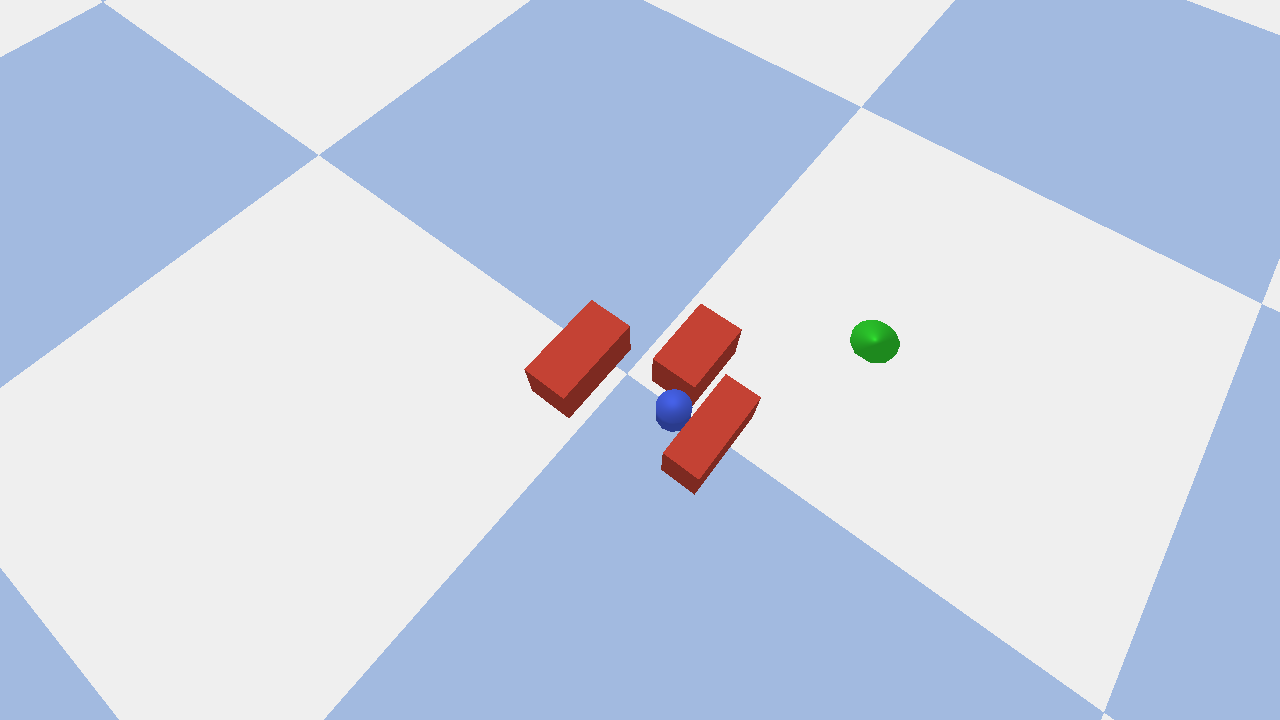
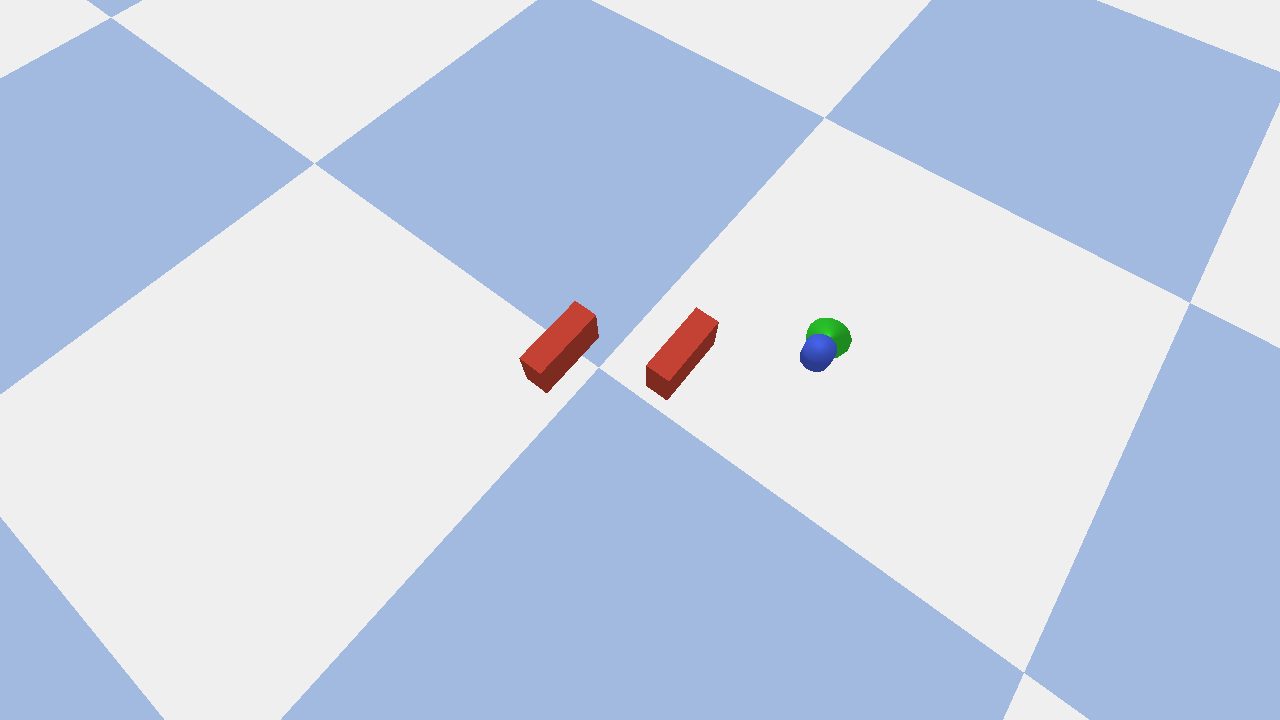
Add PyBullet e-puck clip and clutter success path

diff --git a/examples/pybullet_epuck_goal/run_demo.py b/examples/pybullet_epuck_goal/run_demo.py
@@ -10,6 +10,7 @@ import platform
 import random
 import subprocess
 import sys
+import tempfile
 import time
 from pathlib import Path
 from typing import Any, Dict, List, Optional, Sequence, Tuple
@@ -297,6 +298,60 @@ def write_camera_png(
     image.save(out_path)
 
 
+def write_camera_mp4(
+    client_id: int,
+    frame_targets_xy: Sequence[Tuple[float, float]],
+    *,
+    width: int,
+    height: int,
+    distance: float,
+    yaw: float,
+    pitch: float,
+    target_z: float,
+    fps: int,
+    out_path: Path,
+) -> None:
+    if len(frame_targets_xy) < 2:
+        raise ValueError("Need at least two frames to write an MP4 clip.")
+    out_path.parent.mkdir(parents=True, exist_ok=True)
+    with tempfile.TemporaryDirectory(prefix="pybullet_epuck_video_") as tmp_dir:
+        frames_dir = Path(tmp_dir)
+        for frame_index, frame_target_xy in enumerate(frame_targets_xy):
+            frame_path = frames_dir / f"frame_{frame_index:05d}.png"
+            write_camera_png(
+                client_id,
+                frame_target_xy,
+                width=width,
+                height=height,
+                distance=distance,
+                yaw=yaw,
+                pitch=pitch,
+                target_z=target_z,
+                out_path=frame_path,
+            )
+        try:
+            subprocess.run(
+                [
+                    "ffmpeg",
+                    "-y",
+                    "-loglevel",
+                    "error",
+                    "-framerate",
+                    str(max(1, fps)),
+                    "-i",
+                    str(frames_dir / "frame_%05d.png"),
+                    "-c:v",
+                    "libx264",
+                    "-pix_fmt",
+                    "yuv420p",
+                    str(out_path),
+                ],
+                check=True,
+            )
+        except FileNotFoundError as exc:
+            raise RuntimeError("ffmpeg is required for --video-path export.") from exc
+
+
 def raycast_observation(
     client_id: int,
     ignore_body_id: int,
@@ -581,6 +636,9 @@ def parse_args() -> argparse.Namespace:
     parser.add_argument("--screenshot-path", type=Path, default=None, help="Optional PNG path for a final scene preview.")
     parser.add_argument("--screenshot-target-x", type=float, default=None, help="Optional camera target x for screenshot export.")
     parser.add_argument("--screenshot-target-y", type=float, default=None, help="Optional camera target y for screenshot export.")
+    parser.add_argument("--video-path", type=Path, default=None, help="Optional MP4 path for a short overview clip.")
+    parser.add_argument("--video-fps", type=int, default=12, help="Frame rate for MP4 export.")
+    parser.add_argument("--video-every-nth-tick", type=int, default=2, help="Capture one video frame every N BT ticks.")
     return parser.parse_args()
 
 
@@ -634,9 +692,8 @@ def main() -> int:
         obstacle_specs = []
         if args.with_default_obstacles:
             obstacle_specs = [
-                ((-0.08, -0.05), (0.05, 0.10)),
-                ((0.10, 0.10), (0.05, 0.08)),
-                ((0.22, -0.02), (0.04, 0.10)),
+                ((-0.08, -0.03), (0.03, 0.09)),
+                ((0.14, 0.12), (0.03, 0.09)),
             ]
         obstacles = [make_box_obstacle(client_id, center, half) for center, half in obstacle_specs]
 
@@ -677,6 +734,7 @@ def main() -> int:
             "log_path": str(log_path),
             "metadata_path": str(metadata_path),
         }
+        video_targets_xy: List[Tuple[float, float]] = []
 
         for tick_index in range(1, max_ticks + 1):
             if sim.stop_requested():
@@ -747,6 +805,11 @@ def main() -> int:
             if planner is not None:
                 record["planner"] = planner
             sink.write(record)
+            if args.video_path is not None and (tick_index % max(1, args.video_every_nth_tick) == 0):
+                if args.screenshot_target_x is not None and args.screenshot_target_y is not None:
+                    video_targets_xy.append((float(args.screenshot_target_x), float(args.screenshot_target_y)))
+                else:
+                    video_targets_xy.append((state.x, state.y))
 
             sim.step(steps_per_tick)
 
@@ -782,6 +845,24 @@ def main() -> int:
                 out_path=args.screenshot_path,
             )
             summary["screenshot_path"] = str(args.screenshot_path)
+        if args.video_path is not None:
+            if args.screenshot_target_x is not None and args.screenshot_target_y is not None:
+                video_targets_xy.append((float(args.screenshot_target_x), float(args.screenshot_target_y)))
+            else:
+                video_targets_xy.append((final_state.x, final_state.y))
+            write_camera_mp4(
+                client_id,
+                video_targets_xy,
+                width=1280,
+                height=720,
+                distance=args.camera_distance,
+                yaw=args.camera_yaw,
+                pitch=args.camera_pitch,
+                target_z=args.camera_target_z,
+                fps=args.video_fps,
+                out_path=args.video_path,
+            )
+            summary["video_path"] = str(args.video_path)
 
         print(json.dumps(summary, indent=2))
         return 0

diff --git a/docs/examples/pybullet-epuck-goal.md b/docs/examples/pybullet-epuck-goal.md
@@ -1,10 +1,14 @@
 # pybullet: e-puck-style goal seeking
 
+<video controls muted loop playsinline width="100%">
+  <source src="../assets/demos/pybullet-epuck-goal/showcase.mp4" type="video/mp4">
+</video>
+
 ![PyBullet e-puck-style scene](../assets/demos/pybullet-epuck-goal/scene.png)
 
 This example runs the shared wheeled flagship BT against a compact differential-drive surrogate in PyBullet.
 
-The default run is deliberately simple: it reaches the goal on a clear path and gives you a quick success check for the shared BT, the Python bridge, and the JSONL log surface. The optional clutter layout adds a tighter scene that is useful for inspection and screenshots.
+The default run is deliberately simple: it reaches the goal on a clear path and gives you a quick success check for the shared BT, the Python bridge, and the JSONL log surface. The checked-in clutter layout also reaches the goal, which makes it a better fit for same-robot comparison work and for a more visually useful demo clip.
 
 ## what it demonstrates
 
@@ -38,22 +42,43 @@ PYTHONPATH=build/dev/python \
   .venv-py311/bin/python examples/pybullet_epuck_goal/run_demo.py --with-default-obstacles
 ```
 
+That clutter run now reaches the goal on the checked-in seed and scene.
+
 ## capture a scene preview
 
-The checked-in preview image on this page comes from the clutter layout:
+The checked-in preview image and clip on this page come from the clutter layout:
 
 ```bash
 PYTHONPATH=build/dev/python \
   .venv-py311/bin/python examples/pybullet_epuck_goal/run_demo.py \
   --headless \
   --with-default-obstacles \
-  --camera-distance 1.25 \
+  --camera-distance 1.35 \
   --camera-yaw 38 \
   --camera-pitch -63 \
-  --screenshot-target-x 0.02 \
-  --screenshot-target-y 0.02 \
+  --screenshot-target-x 0.08 \
+  --screenshot-target-y 0.05 \
   --screenshot-path docs/assets/demos/pybullet-epuck-goal/scene.png
 ```
+
+Export the short MP4 clip:
+
+```bash
+PYTHONPATH=build/dev/python \
+  .venv-py311/bin/python examples/pybullet_epuck_goal/run_demo.py \
+  --headless \
+  --with-default-obstacles \
+  --camera-distance 1.35 \
+  --camera-yaw 38 \
+  --camera-pitch -63 \
+  --screenshot-target-x 0.08 \
+  --screenshot-target-y 0.05 \
+  --video-path docs/assets/demos/pybullet-epuck-goal/showcase.mp4 \
+  --video-fps 12 \
+  --video-every-nth-tick 4
+```
+
+`ffmpeg` is required for `--video-path`.
 
 ## what to look for
 
@@ -67,6 +92,7 @@ PYTHONPATH=build/dev/python \
 - tick log: `examples/pybullet_epuck_goal/logs/<run_id>.jsonl`
 - metadata: `examples/pybullet_epuck_goal/logs/<run_id>.run_metadata.json`
 - optional scene preview: any path passed via `--screenshot-path`
+- optional MP4 clip: any path passed via `--video-path`
 
 ## key files
 

diff --git a/examples/pybullet_epuck_goal/README.md b/examples/pybullet_epuck_goal/README.md
@@ -2,7 +2,7 @@
 
 This example runs the shared wheeled flagship BT against a compact differential-drive surrogate in PyBullet.
 
-The default scene is a simple success path. It is meant to answer one question quickly: does the shared wheeled flagship BT run cleanly on a small differential-drive robot in PyBullet and reach the goal? The optional clutter layout adds a denser scene for inspection and screenshots.
+The default scene is a simple success path. It is meant to answer one question quickly: does the shared wheeled flagship BT run cleanly on a small differential-drive robot in PyBullet and reach the goal? The checked-in clutter layout also reaches the goal, so it is useful both for inspection and for stricter same-robot comparison work.
 
 It keeps the flagship decision contract visible:
 
@@ -44,19 +44,39 @@ PYTHONPATH=build/dev/python \
   .venv-py311/bin/python examples/pybullet_epuck_goal/run_demo.py \
   --headless \
   --with-default-obstacles \
-  --camera-distance 1.25 \
+  --camera-distance 1.35 \
   --camera-yaw 38 \
   --camera-pitch -63 \
-  --screenshot-target-x 0.02 \
-  --screenshot-target-y 0.02 \
+  --screenshot-target-x 0.08 \
+  --screenshot-target-y 0.05 \
   --screenshot-path docs/assets/demos/pybullet-epuck-goal/scene.png
 ```
+
+Capture a short MP4 clip:
+
+```bash
+PYTHONPATH=build/dev/python \
+  .venv-py311/bin/python examples/pybullet_epuck_goal/run_demo.py \
+  --headless \
+  --with-default-obstacles \
+  --camera-distance 1.35 \
+  --camera-yaw 38 \
+  --camera-pitch -63 \
+  --screenshot-target-x 0.08 \
+  --screenshot-target-y 0.05 \
+  --video-path docs/assets/demos/pybullet-epuck-goal/showcase.mp4 \
+  --video-fps 12 \
+  --video-every-nth-tick 4
+```
+
+`ffmpeg` is required for `--video-path`.
 
 ## outputs
 
 - tick log: `examples/pybullet_epuck_goal/logs/<run_id>.jsonl`
 - metadata: `examples/pybullet_epuck_goal/logs/<run_id>.run_metadata.json`
 - optional preview image: any path passed via `--screenshot-path`
+- optional MP4 clip: any path passed via `--video-path`
 
 ## key files
 

diff --git a/docs/integration/same-robot-strict-comparison.md b/docs/integration/same-robot-strict-comparison.md
@@ -44,6 +44,7 @@ The current racecar path stays useful, but it should not be used to argue for al
 
 The repository now includes an initial strict-track surrogate at `examples/pybullet_epuck_goal/`.
 That path is still a surrogate rather than a full robot clone, but it keeps the embodiment class and command surface much closer to the Webots e-puck family.
+The checked-in clutter layout for that path now also reaches the goal, so the strict track can use a successful cluttered-goal run rather than only a clean-path smoke test.
 
 ### source of truth
 
